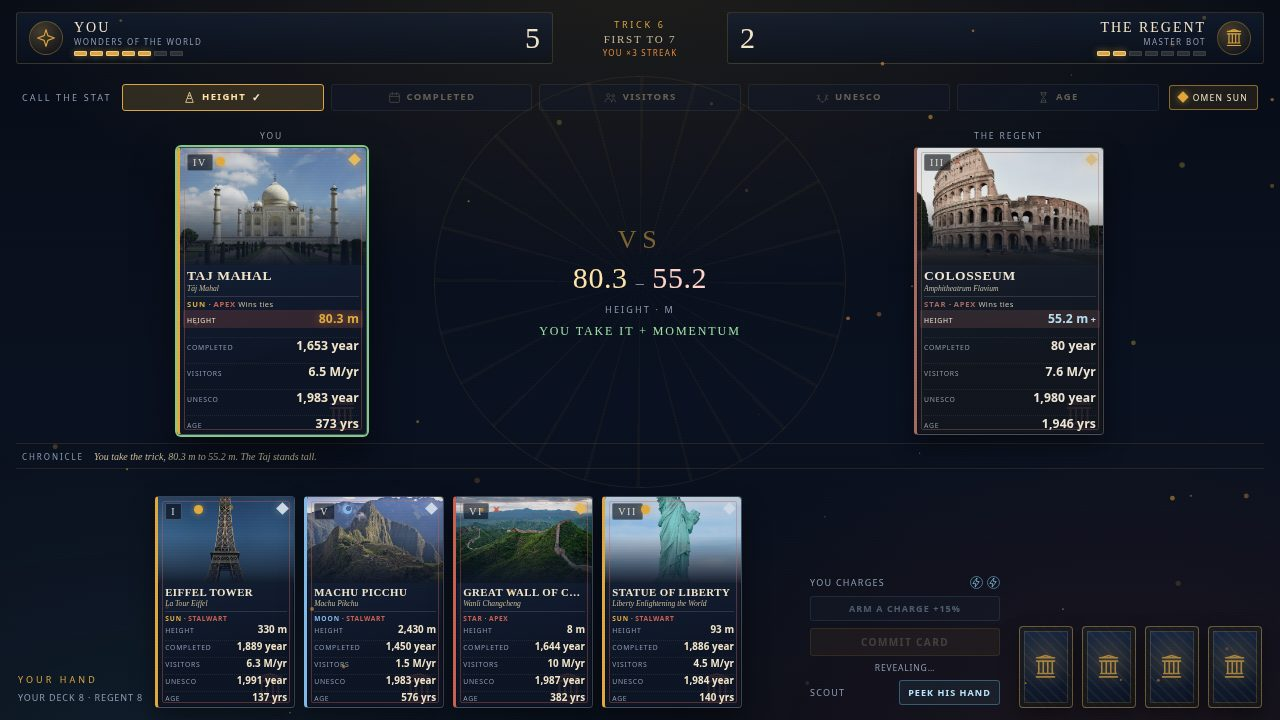
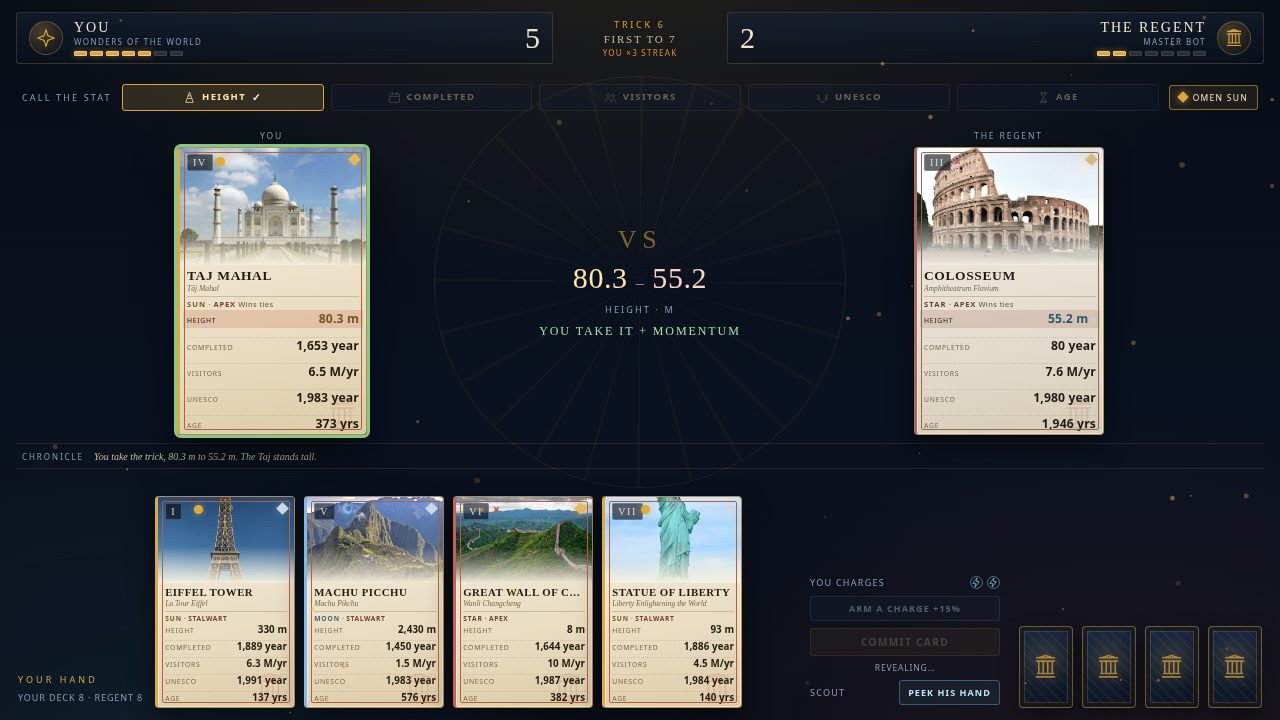
Use parchment card faces for legibility

Changed region(s): [[0.125, 0.6722, 0.5938, 1.0], [0.125, 0.1833, 0.3125, 0.6111], [0.7188, 0.1833, 0.875, 0.6111]]

diff --git a/game/styles/cards.css b/game/styles/cards.css
@@ -124,3 +124,36 @@
 /* little house / deck emblem inside badges */
 .emblem-wrap { display: inline-grid; place-items: center; }
 .emblem-wrap svg { width: 100%; height: 100%; }
+
+/* Parchment card face: dark ink on aged paper reads at thumbnail size. */
+.card {
+  background: linear-gradient(170deg, #f8f1e0, #e7d9bd 72%, #ddcba8);
+  border-color: #b98a4a;
+  color: #241b10;
+  box-shadow: 0 10px 24px rgba(0, 0, 0, 0.5), inset 0 0 0 1px rgba(255, 250, 238, 0.5);
+}
+.card::after { border-color: color-mix(in srgb, var(--accent) 52%, #8a6430); }
+.card-name { color: #241b10; }
+.card-latin { color: #7a6544; }
+.card-heading { border-bottom-color: rgba(70, 48, 18, 0.22); }
+.stat-label { color: #7a6544; }
+.stat-value { color: #241b10; }
+.stat + .stat { border-top-color: rgba(70, 48, 18, 0.14); }
+.card-trait { color: #6b5636; }
+.card-trait b { color: var(--accent); }
+.card-trait .crest-label { color: var(--crest); }
+.card-emblem { color: var(--accent); opacity: 0.18; }
+.card-photo::after { background: linear-gradient(180deg, rgba(248, 241, 224, 0) 58%, rgba(248, 241, 224, 0.96) 100%); }
+.card-photo img { filter: saturate(1.02) contrast(1.03) brightness(1.02); }
+.stat.called { background: color-mix(in srgb, var(--accent) 22%, transparent); }
+.stat.called .stat-label { color: #241b10; }
+.stat.called .stat-value { color: #6b3f00; }
+.stat.boosted .stat-value { color: #0d5f88; }
+.stat.omen .stat-value { color: var(--crest); text-shadow: none; }
+.card.on-table.winner { box-shadow: 0 0 0 3px var(--good), 0 18px 40px rgba(0, 0, 0, 0.55); }
+.card.playable:hover, .card.playable:focus-visible { box-shadow: 0 20px 34px rgba(0, 0, 0, 0.55), 0 0 0 2px var(--brass); }
+.card.playable.selected { box-shadow: 0 0 0 3px var(--brass), 0 22px 38px rgba(0, 0, 0, 0.6); }
+.card { border-left-color: var(--crest); }
+.stat.omen .stat-value { color: color-mix(in srgb, var(--crest) 42%, #241b10); }
+.card-trait .crest-label { color: color-mix(in srgb, var(--crest) 45%, #241b10); }
+.card-trait b { color: color-mix(in srgb, var(--accent) 50%, #241b10); }
